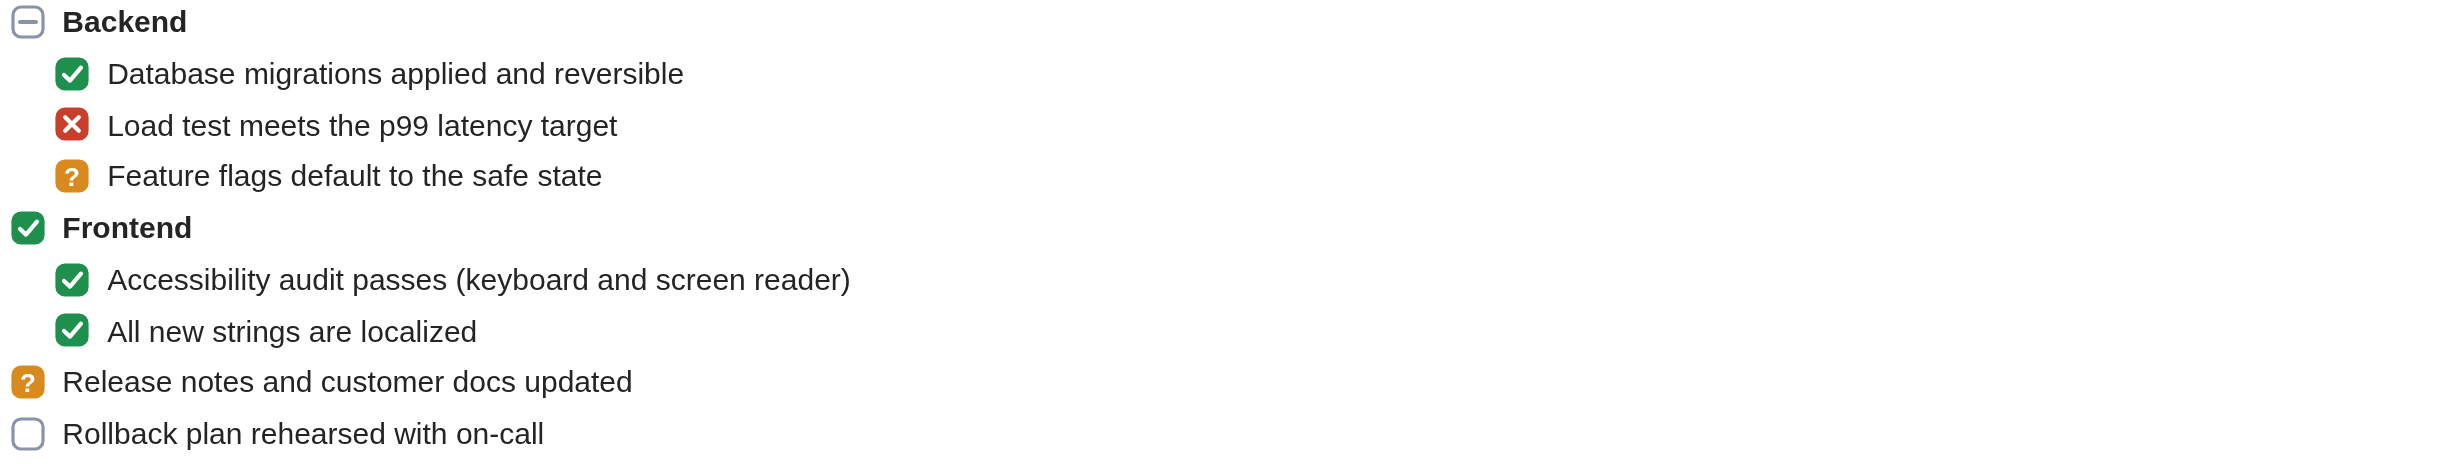
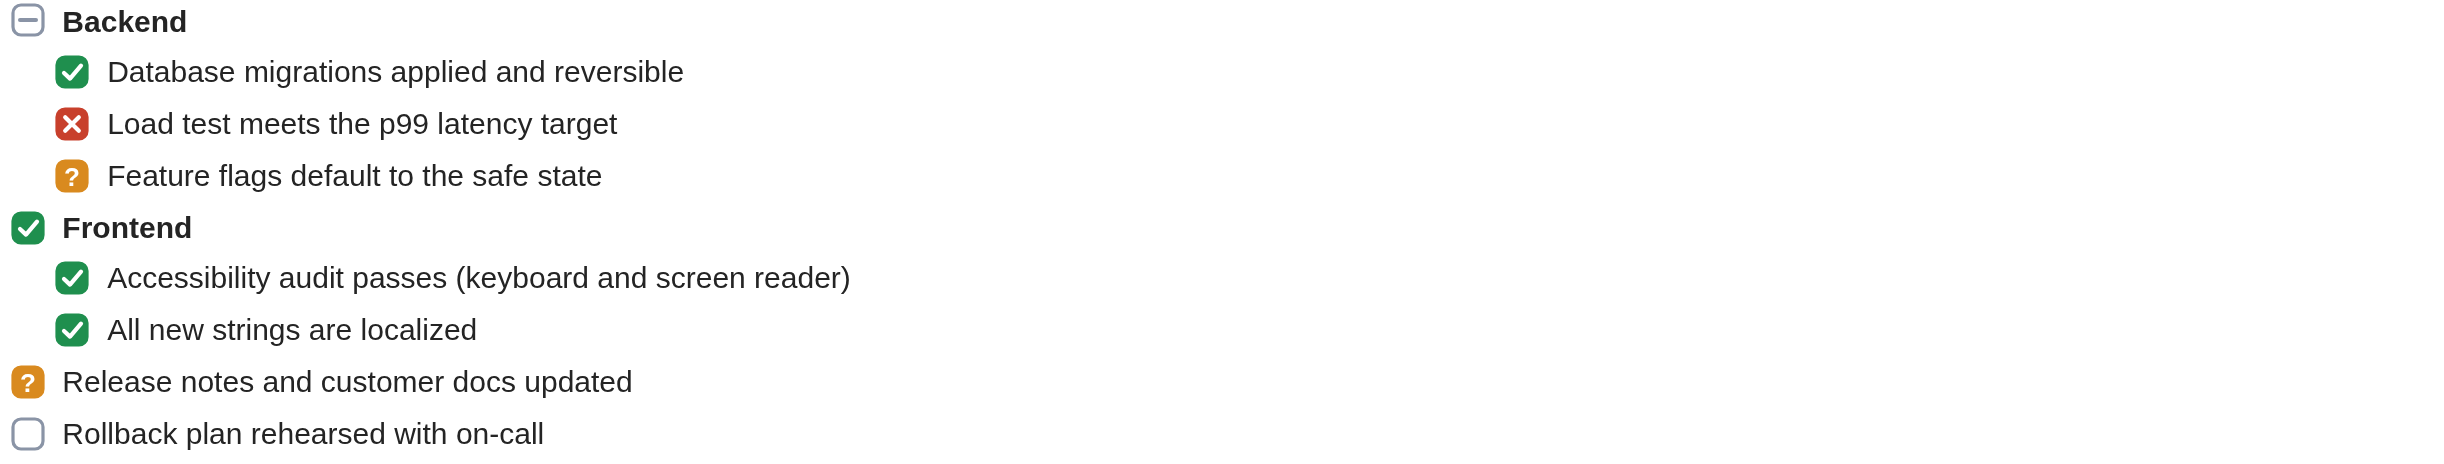
Keep discussion guidance lean and refresh pinned tutorial image
Copilot-Session: c91727bc-4692-4c20-a11a-d72910caf8e0

diff --git a/site/dist/commentable-html/tutorial/index.html b/site/dist/commentable-html/tutorial/index.html
@@ -142,7 +142,7 @@
           <li>Click an item&#x27;s box to cycle its state: blank, done (green check), failed (red cross), or unresolved (amber question). A group heading rolls up the state of its items, and clicking it propagates a state to every item beneath it.</li>
           <li>Your changes are saved with the document and surface as a checklist card in the sidebar (with jump and reset), so you can hand the updated states back to the agent. You can also select an item&#x27;s text and click <strong>Add Comment</strong> to leave a note on that specific check. The toolbar count badge counts checklist changes, review-note edits and table edits, alongside open comment threads, so it reflects everything still needing attention.</li>
           </ol>
-          <p><img src="assets/checklist-01-checklist.png?v=9e787ce7af55" alt="A grouped review checklist with tickable items under Backend and Frontend headings" loading="lazy" /></p>
+          <p><img src="assets/checklist-01-checklist.png?v=86014a63b576" alt="A grouped review checklist with tickable items under Backend and Frontend headings" loading="lazy" /></p>
           <h3>11. Edit a review note</h3>
           <p>Notes are editable free-text fields authors embed for context, verdicts, or reviewer input. Each starts from an authored baseline you can edit in place. Continue in <strong>Review notes</strong> in the <a href="../demo/report-checklist.html">Dynamic Controls demo</a>, or use the <a href="../demo/report-notes.html">dedicated notes example</a>.</p>
           <ol>

diff --git a/plugins/commentable-html/dev/skill/SKILL.md b/plugins/commentable-html/dev/skill/SKILL.md
@@ -50,7 +50,7 @@ Creation tools validate and surface warnings, but that never replaces the final 
 
 - **Self review:** generate the artifact, open it, comment inline, click **Copy all**, paste the bundle to the agent, let the agent update the HTML and mark handled ids, then reload.
 - **Peer review:** self-review first, click **Export as Shareable**, share the downloaded HTML, receive the peer's Shareable HTML with embedded comments, then feed those comments back to the agent.
-- **AI discussion:** choose **Ask AI**, hand Copy or exported HTML to the agent, then reload its answered file. Check the remembered reply purpose: Ask AI for questions, **Request edit** for an explicit command. Schedule question-only answers only with owner consent; never enable a schedule automatically.
+- **AI discussion:** choose **Ask AI**, hand Copy or exported HTML to the agent, then reload the answered file. Check remembered reply purpose: Ask AI for questions, **Request edit** for commands. Schedule question-only answers only with owner consent; never schedule automatically.
 - **Reviewer loop:** render Markdown to HTML and pass it to `tools/authoring/new_document.py --content`, or retrofit existing HTML with `tools/authoring/retrofit.py`, then return a Shareable file with embedded comments.
 
 ## Steps

diff --git a/plugins/commentable-html/pkg/skills/commentable-html/SKILL.md b/plugins/commentable-html/pkg/skills/commentable-html/SKILL.md
@@ -50,7 +50,7 @@ Creation tools validate and surface warnings, but that never replaces the final 
 
 - **Self review:** generate the artifact, open it, comment inline, click **Copy all**, paste the bundle to the agent, let the agent update the HTML and mark handled ids, then reload.
 - **Peer review:** self-review first, click **Export as Shareable**, share the downloaded HTML, receive the peer's Shareable HTML with embedded comments, then feed those comments back to the agent.
-- **AI discussion:** choose **Ask AI**, hand Copy or exported HTML to the agent, then reload its answered file. Check the remembered reply purpose: Ask AI for questions, **Request edit** for an explicit command. Schedule question-only answers only with owner consent; never enable a schedule automatically.
+- **AI discussion:** choose **Ask AI**, hand Copy or exported HTML to the agent, then reload the answered file. Check remembered reply purpose: Ask AI for questions, **Request edit** for commands. Schedule question-only answers only with owner consent; never schedule automatically.
 - **Reviewer loop:** render Markdown to HTML and pass it to `tools/authoring/new_document.py --content`, or retrofit existing HTML with `tools/authoring/retrofit.py`, then return a Shareable file with embedded comments.
 
 ## Steps
